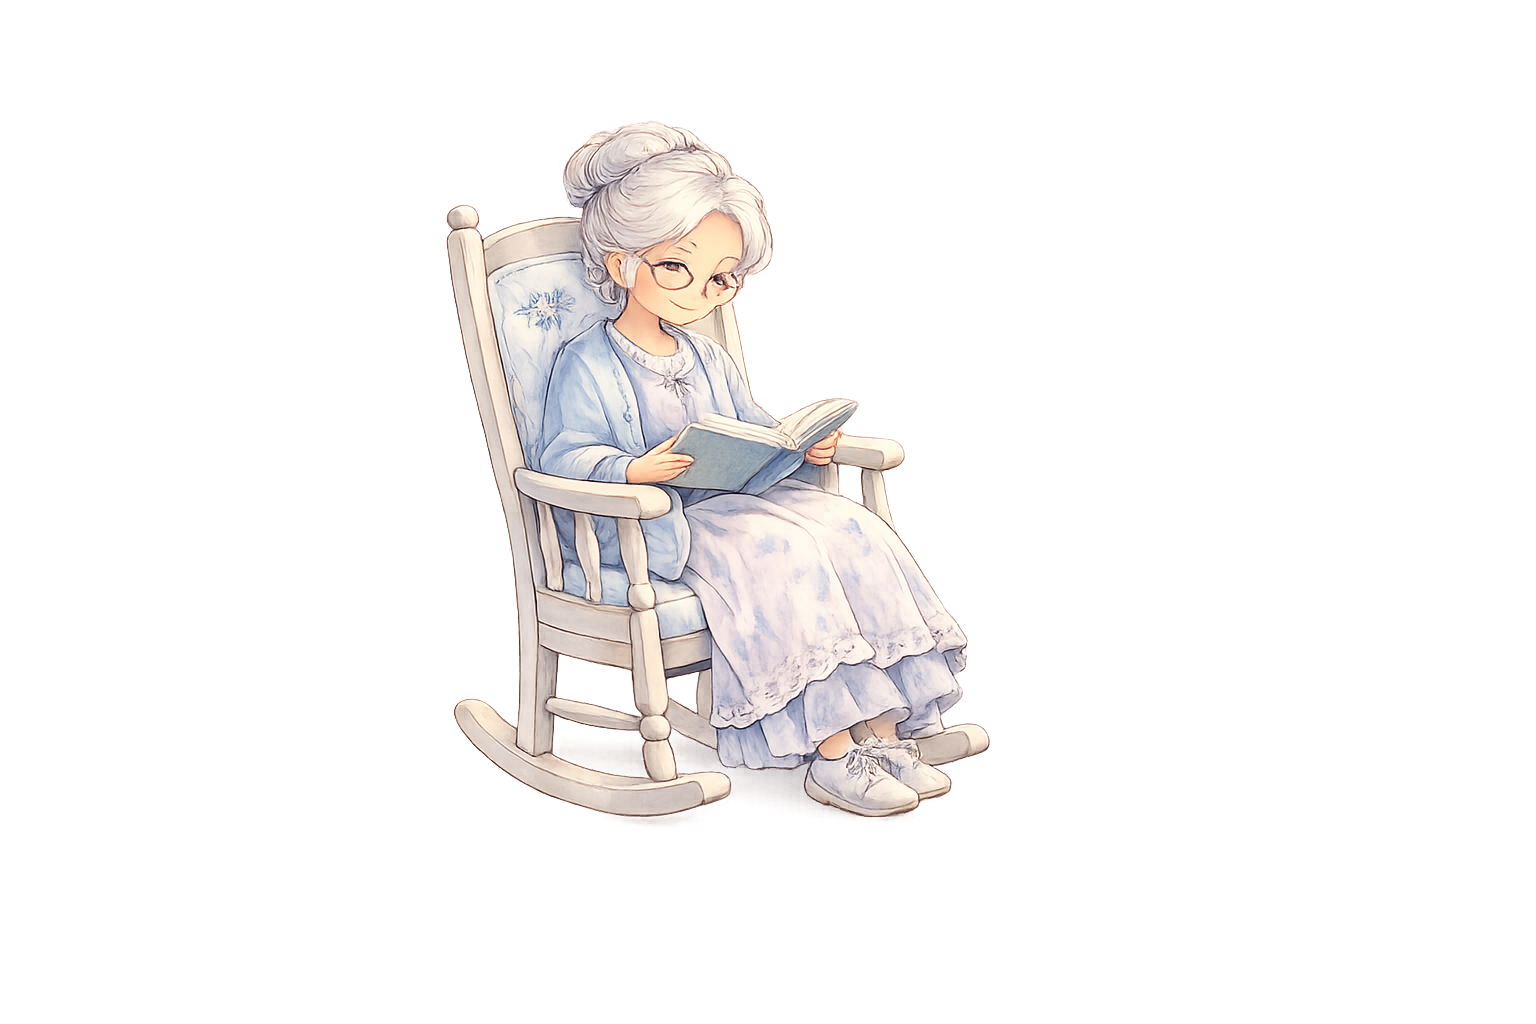
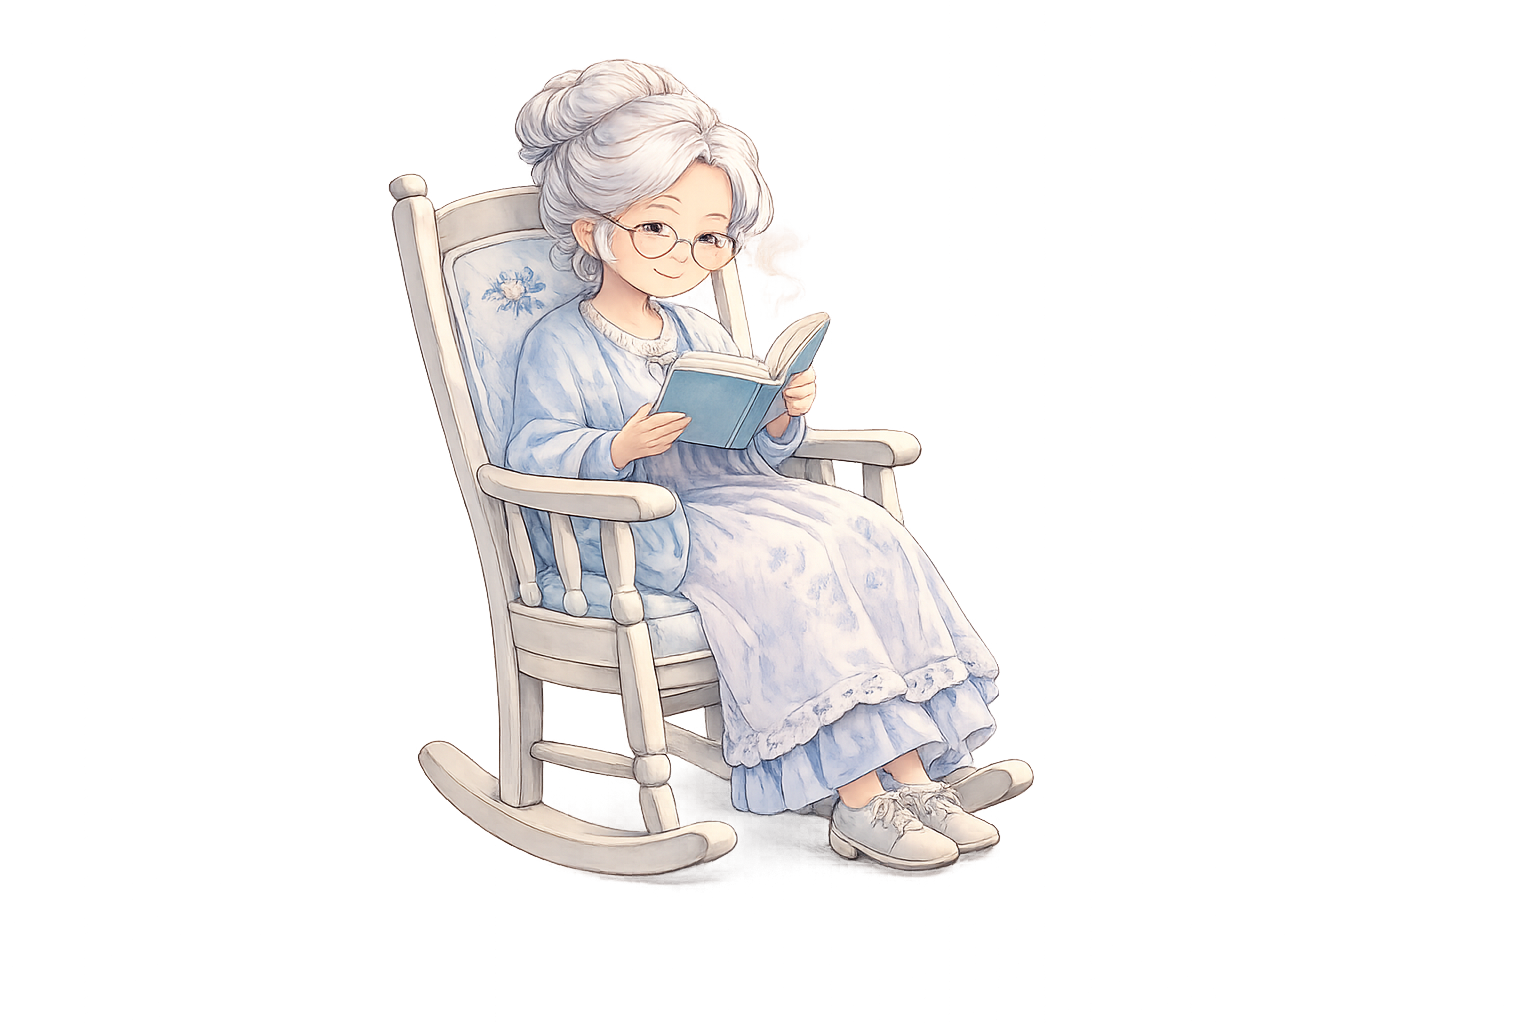
next restyling

Changed region(s): [[0.25, 0.0625, 0.6875, 0.875]]

diff --git a/src/pages/OverviewPage.tsx b/src/pages/OverviewPage.tsx
@@ -136,13 +136,6 @@ export function OverviewPage({ dashboard, projectionYears }: OverviewPageProps) 
           <p className="mt-3 text-lg font-bold text-slate-600 md:text-xl">
             Visualize today, plan for tomorrow, achieve your dreams.
           </p>
-          <div className="mx-auto mt-4 flex w-48 items-center justify-center gap-3 text-sky-700" aria-hidden="true">
-            <span className="h-px flex-1 bg-sky-700" />
-            <Leaf className="h-4 w-4" />
-            <span className="h-2 w-2 rounded-full bg-sky-700" />
-            <Leaf className="h-4 w-4 scale-x-[-1]" />
-            <span className="h-px flex-1 bg-sky-700" />
-          </div>
         </div>
 
         <Link
@@ -168,8 +161,6 @@ export function OverviewPage({ dashboard, projectionYears }: OverviewPageProps) 
                   <div className={`pointer-events-none absolute inset-0 ${washClass}`} aria-hidden="true" />
                   <div className="pointer-events-none absolute inset-0 bg-linear-to-b from-white/70 via-white/45 to-white/20" aria-hidden="true" />
                   <div className="relative flex h-full flex-col items-center justify-center gap-4">
-                    <Icon className={`h-8 w-8 ${iconClass}`} strokeWidth={1.6} />
-                    <p className={`text-sm font-bold leading-5 ${labelClass}`}>{label}</p>
                     {id === 'current' ? (
                       <CurrentWealthProgressRing
                         amount={cards[index]}
@@ -177,9 +168,13 @@ export function OverviewPage({ dashboard, projectionYears }: OverviewPageProps) 
                         progressPercent={currentWealthProgressPercent}
                       />
                     ) : (
-                      <p className={`text-3xl font-black tracking-normal ${valueClass}`}>
-                        {cards[index]}
-                      </p>
+                      <>
+                        <Icon className={`h-8 w-8 ${iconClass}`} strokeWidth={1.6} />
+                        <p className={`text-sm font-bold leading-5 ${labelClass}`}>{label}</p>
+                        <p className={`text-3xl font-black tracking-normal ${valueClass}`}>
+                          {cards[index]}
+                        </p>
+                      </>
                     )}
                   </div>
                 </div>
@@ -207,9 +202,9 @@ function CurrentWealthProgressRing({
   const strokeDashoffset = circumference - (safeProgressPercent / 100) * circumference;
 
   return (
-    <div className="flex flex-col items-center gap-3">
-      <div className="relative h-24 w-24">
-        <svg className="h-24 w-24 -rotate-90" role="img" viewBox="0 0 112 112" aria-label={`${Math.round(safeProgressPercent)}% goal`}>
+    <div className="flex flex-col items-center gap-5">
+      <div className="relative h-45 w-45">
+        <svg className="h-45 w-45 -rotate-90" role="img" viewBox="0 0 112 112" aria-label={`${Math.round(safeProgressPercent)}% goal`}>
           <circle
             cx="56"
             cy="56"
@@ -232,12 +227,12 @@ function CurrentWealthProgressRing({
         </svg>
         <div className="absolute inset-0 grid place-items-center text-center">
           <div>
-            <p className="text-2xl font-black tracking-normal text-slate-950">{Math.round(safeProgressPercent)}%</p>
-            <p className="text-sm font-bold text-amber-700">goal</p>
+            <p className="text-3xl font-black tracking-normal text-slate-950">{Math.round(safeProgressPercent)}%</p>
+            <p className="text-lg font-bold text-amber-700">goal</p>
           </div>
         </div>
       </div>
-      <p className={`text-sm font-black tracking-normal ${amountClassName}`}>{amount}</p>
+      <p className={`text-xl font-black tracking-normal ${amountClassName}`}>{amount}</p>
     </div>
   );
 }